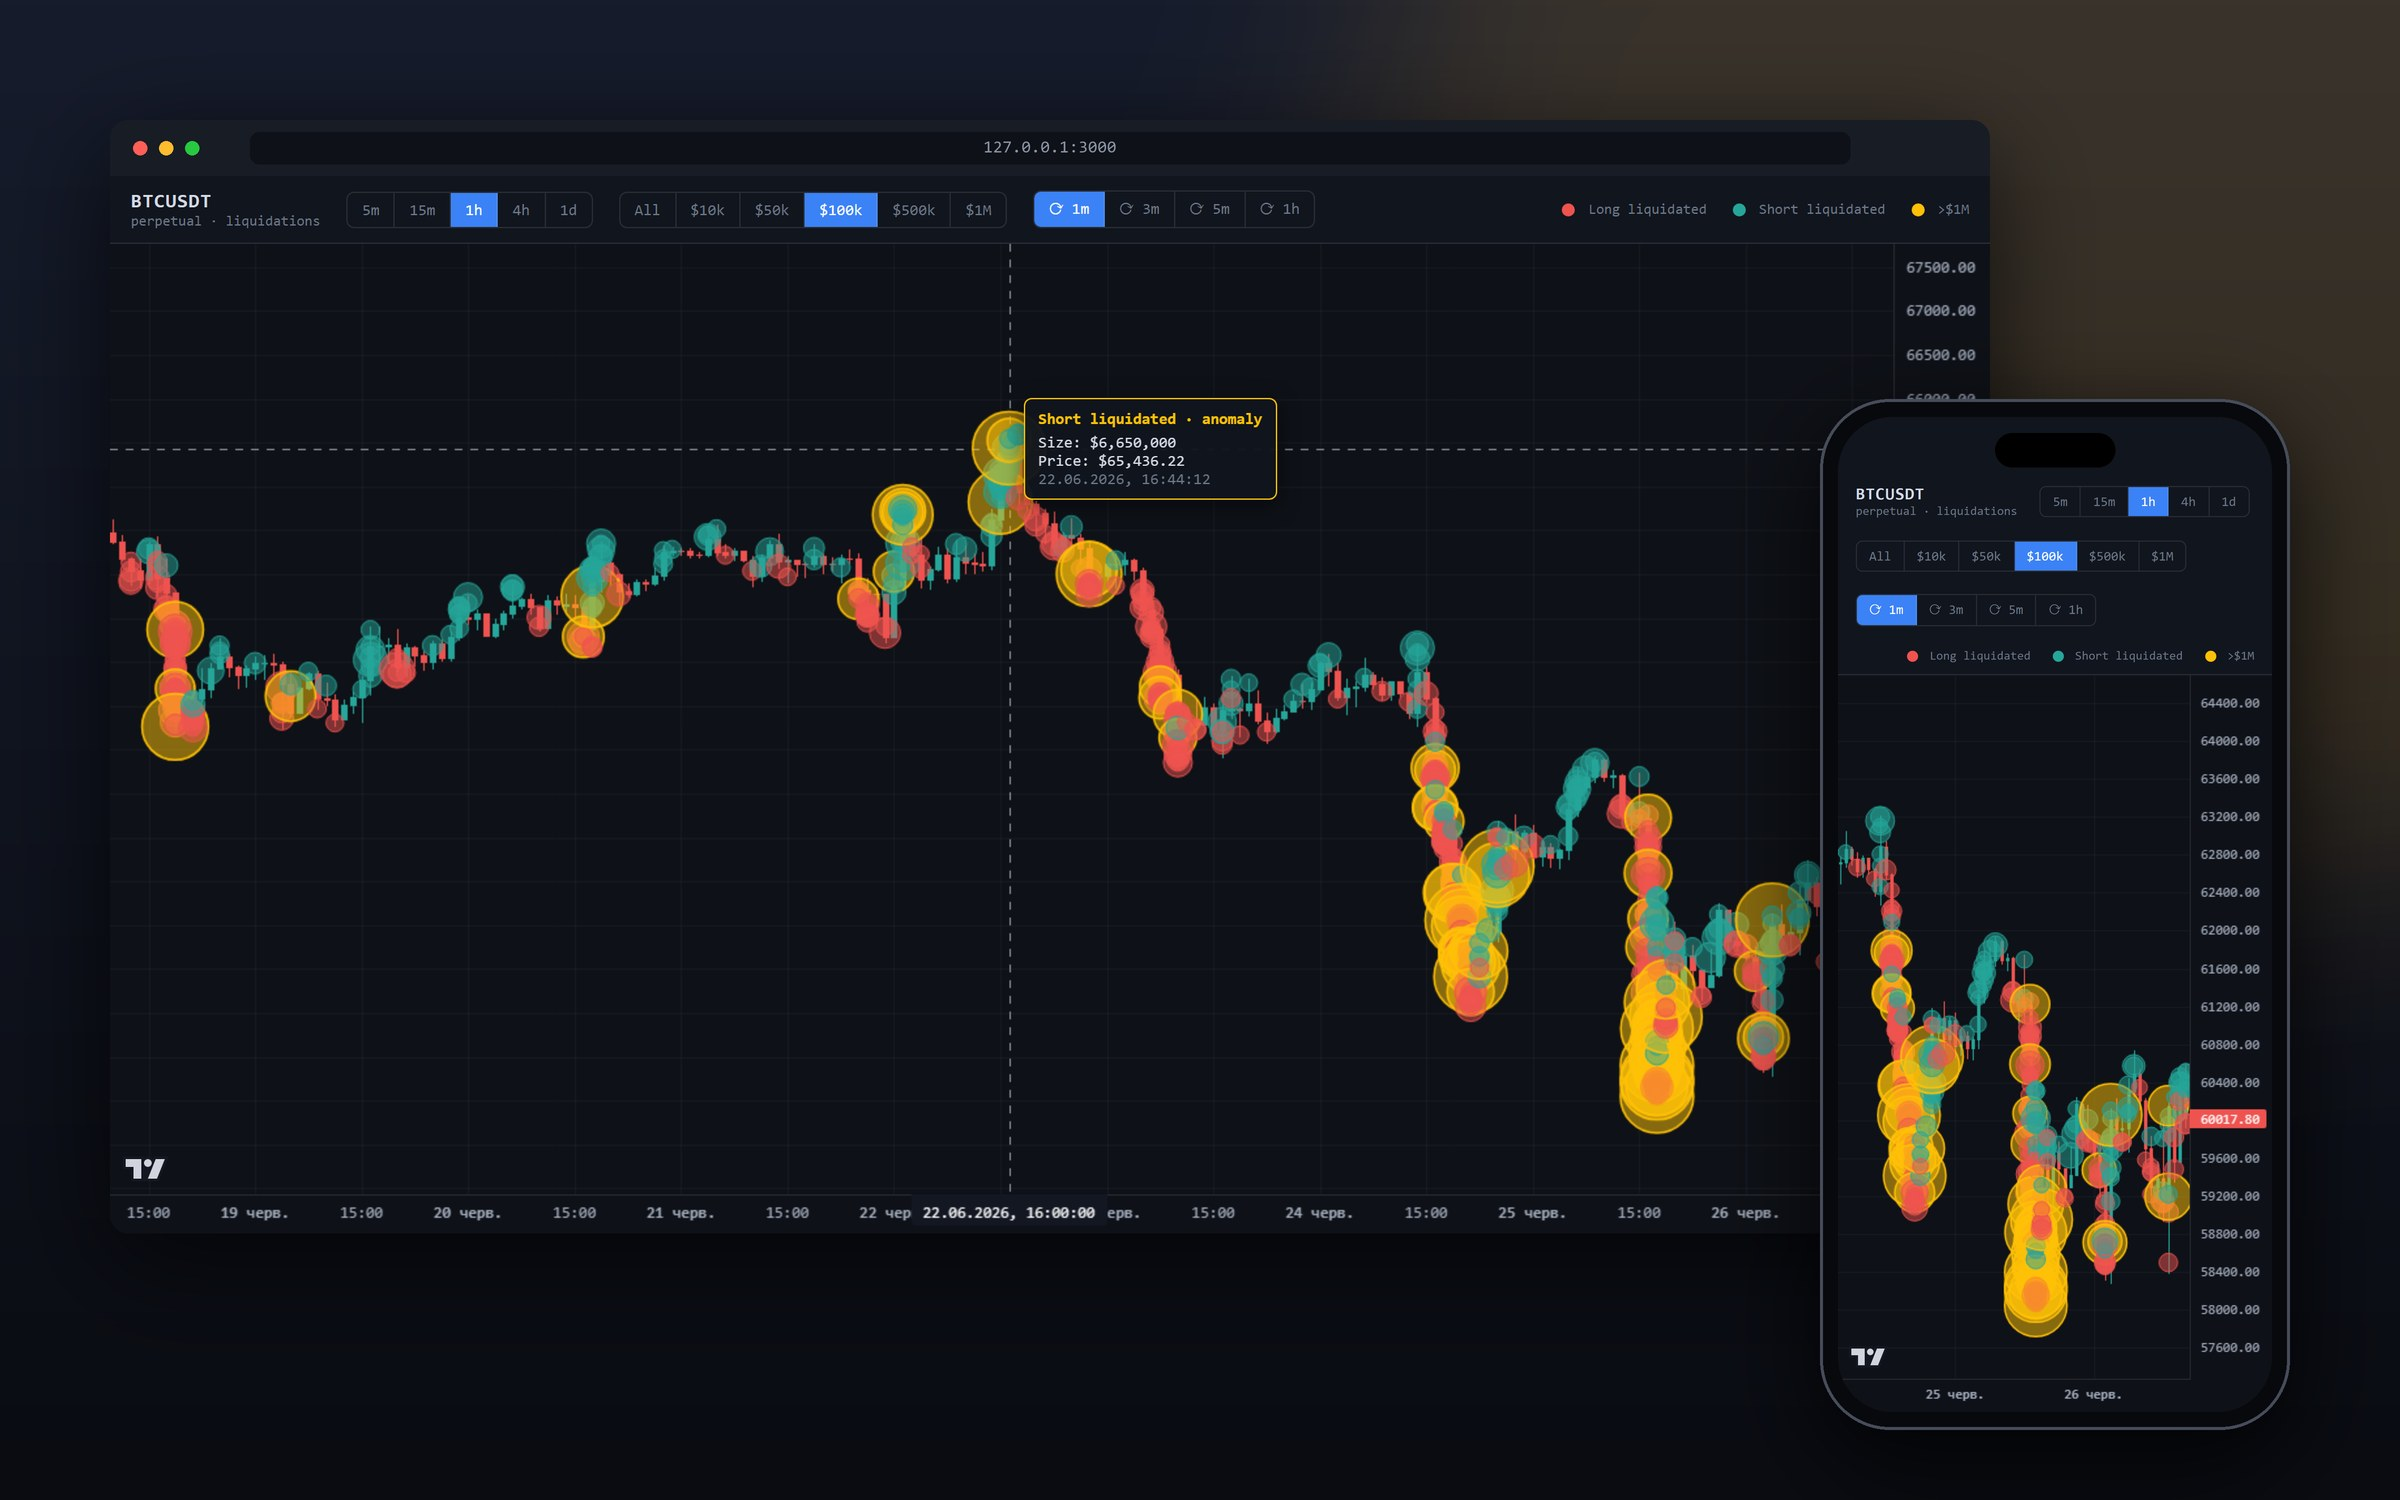
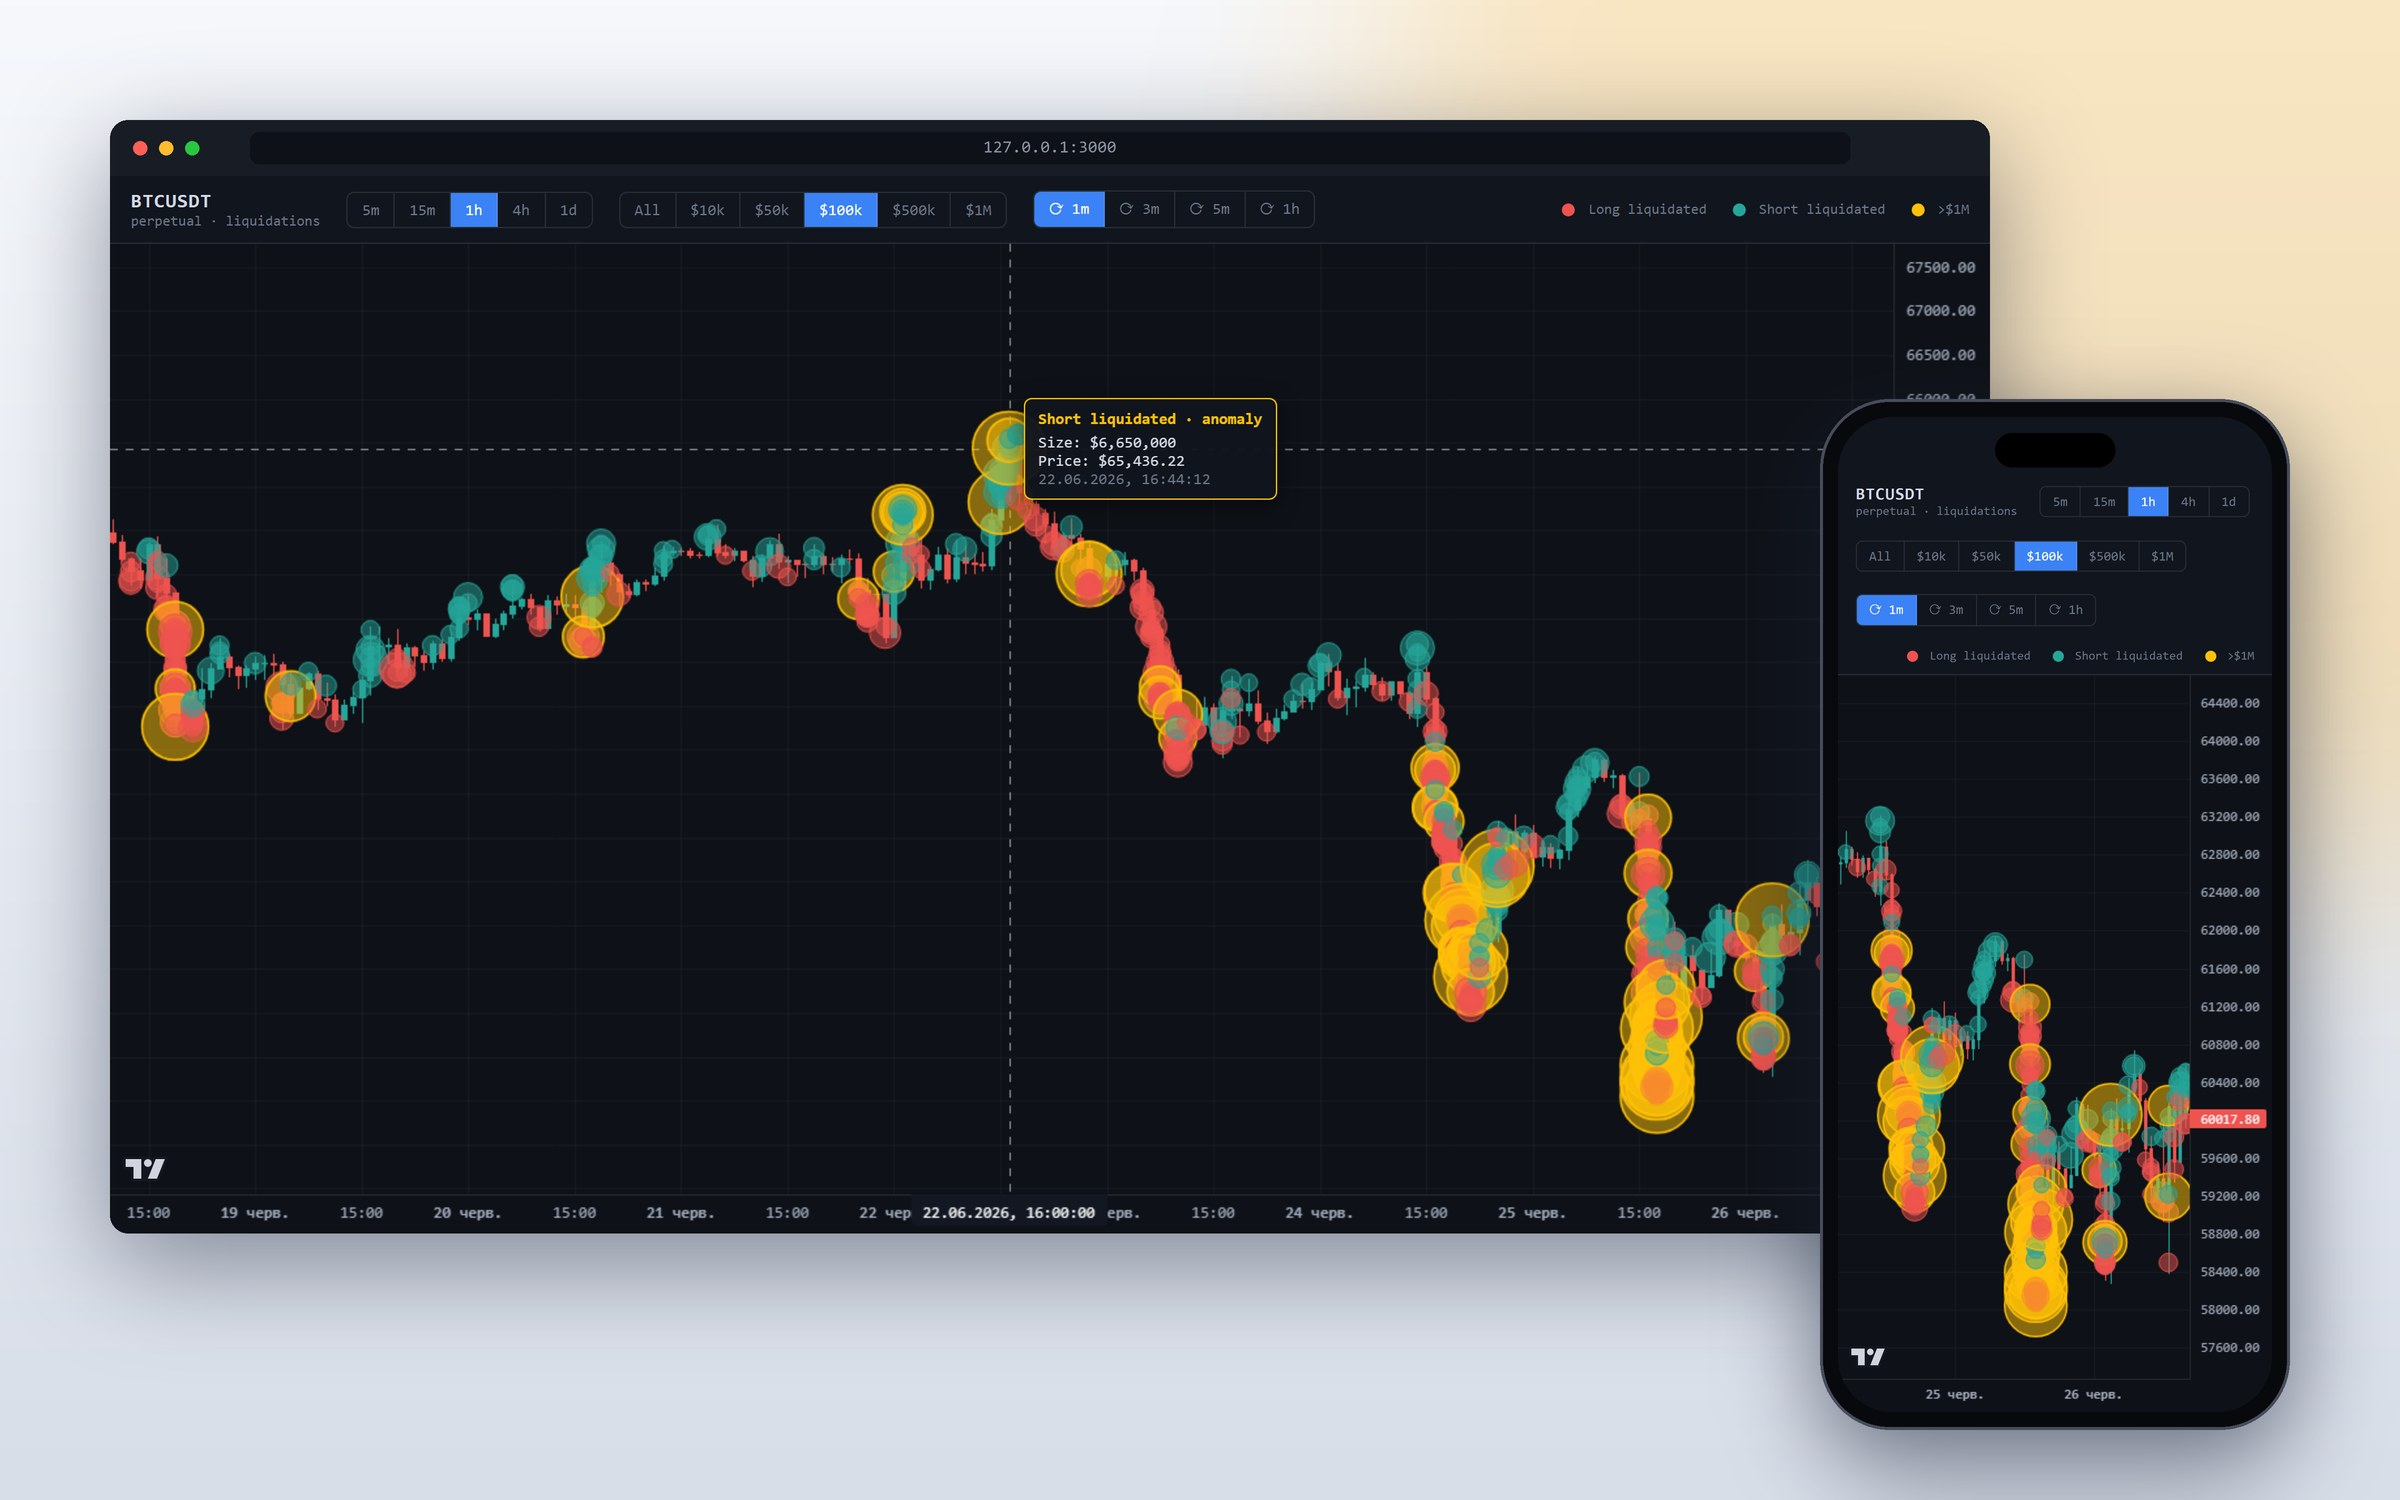
Light mockup background, Security section with dependency audit
- docs/mokup.jpg: light background so the dark app stands out
- README: Security section (no secrets, local bind, read-only API,
  prepared statements, push-only WebSocket) and a dated audit table
- npm run audit: npm audit for server/ and web/

diff --git a/README.md b/README.md
@@ -35,6 +35,7 @@ and time, sized by its value in USDT.
 - [📜 Scripts](#-scripts)
 - [🗂 Project Structure](#-project-structure)
 - [🔧 Configuration](#-configuration)
+- [🛡 Security](#-security)
 - [☁ Deployment](#-deployment)
 - [🚧 Known Limitations](#-known-limitations)
 - [📄 License](#-license)
@@ -403,6 +404,7 @@ From the project root:
 | `npm run import -- <file>` | Import a Telegram `result.json` (see above)                                      |
 | `npm run seed:import`    | Load the history archive into the database                                         |
 | `npm run seed:export`    | Merge the database into the history archive                                        |
+| `npm run audit`          | Check dependencies of `server/` and `web/` for known vulnerabilities               |
 
 Inside `server/`: `npm run dev` — `tsc --watch`.
 Inside `web/`: `npm run dev` — Vite dev server, `npm run preview` — preview the production build.
@@ -481,6 +483,35 @@ There are no environment variables or config files — the few settings are cons
 
 > ⚠ The stream URL uses Binance's routed `/market/ws` path: `@forceOrder` belongs to the
 > **Market** category, and the legacy unrouted `/ws` URLs no longer deliver it.
+
+---
+
+## 🛡 Security
+
+- 🔑 **No keys, no secrets.** Only public Binance market data is used — there are no API keys,
+  tokens or passwords anywhere in the project. The history archive holds public market data only.
+- 🏠 **Local by default.** The server listens on `127.0.0.1`; it is reachable from outside only
+  through a reverse proxy you set up on purpose (see [Deployment](#-deployment)).
+- 📖 **Read-only API.** Only `GET` endpoints; query parameters are validated and clamped, invalid
+  input is answered with `400` instead of an exception.
+- 💉 **No SQL injection surface.** Every query is a prepared statement with bound parameters.
+- 📡 **Push-only WebSocket.** `/ws` only sends liquidations; messages from clients are not processed.
+- 🛑 **Defensive parsing.** Malformed Binance frames, Telegram messages and seed rows are skipped,
+  never crash the collector.
+
+### 📦 Dependency audit
+
+| Package  | Checked    | Result                       |
+| -------- | ---------- | ---------------------------- |
+| `server` | 26.10.2026 | ✅ 0 known vulnerabilities   |
+| `web`    | 26.10.2026 | ✅ 0 known vulnerabilities   |
+
+Advisories in transitive dependencies of Express and Vite were fixed with `npm audit fix` (no
+breaking upgrades). New advisories appear all the time, so re-check before deploying:
+
+```bash
+npm run audit        # npm audit for server/ and web/
+```
 
 ---
 
